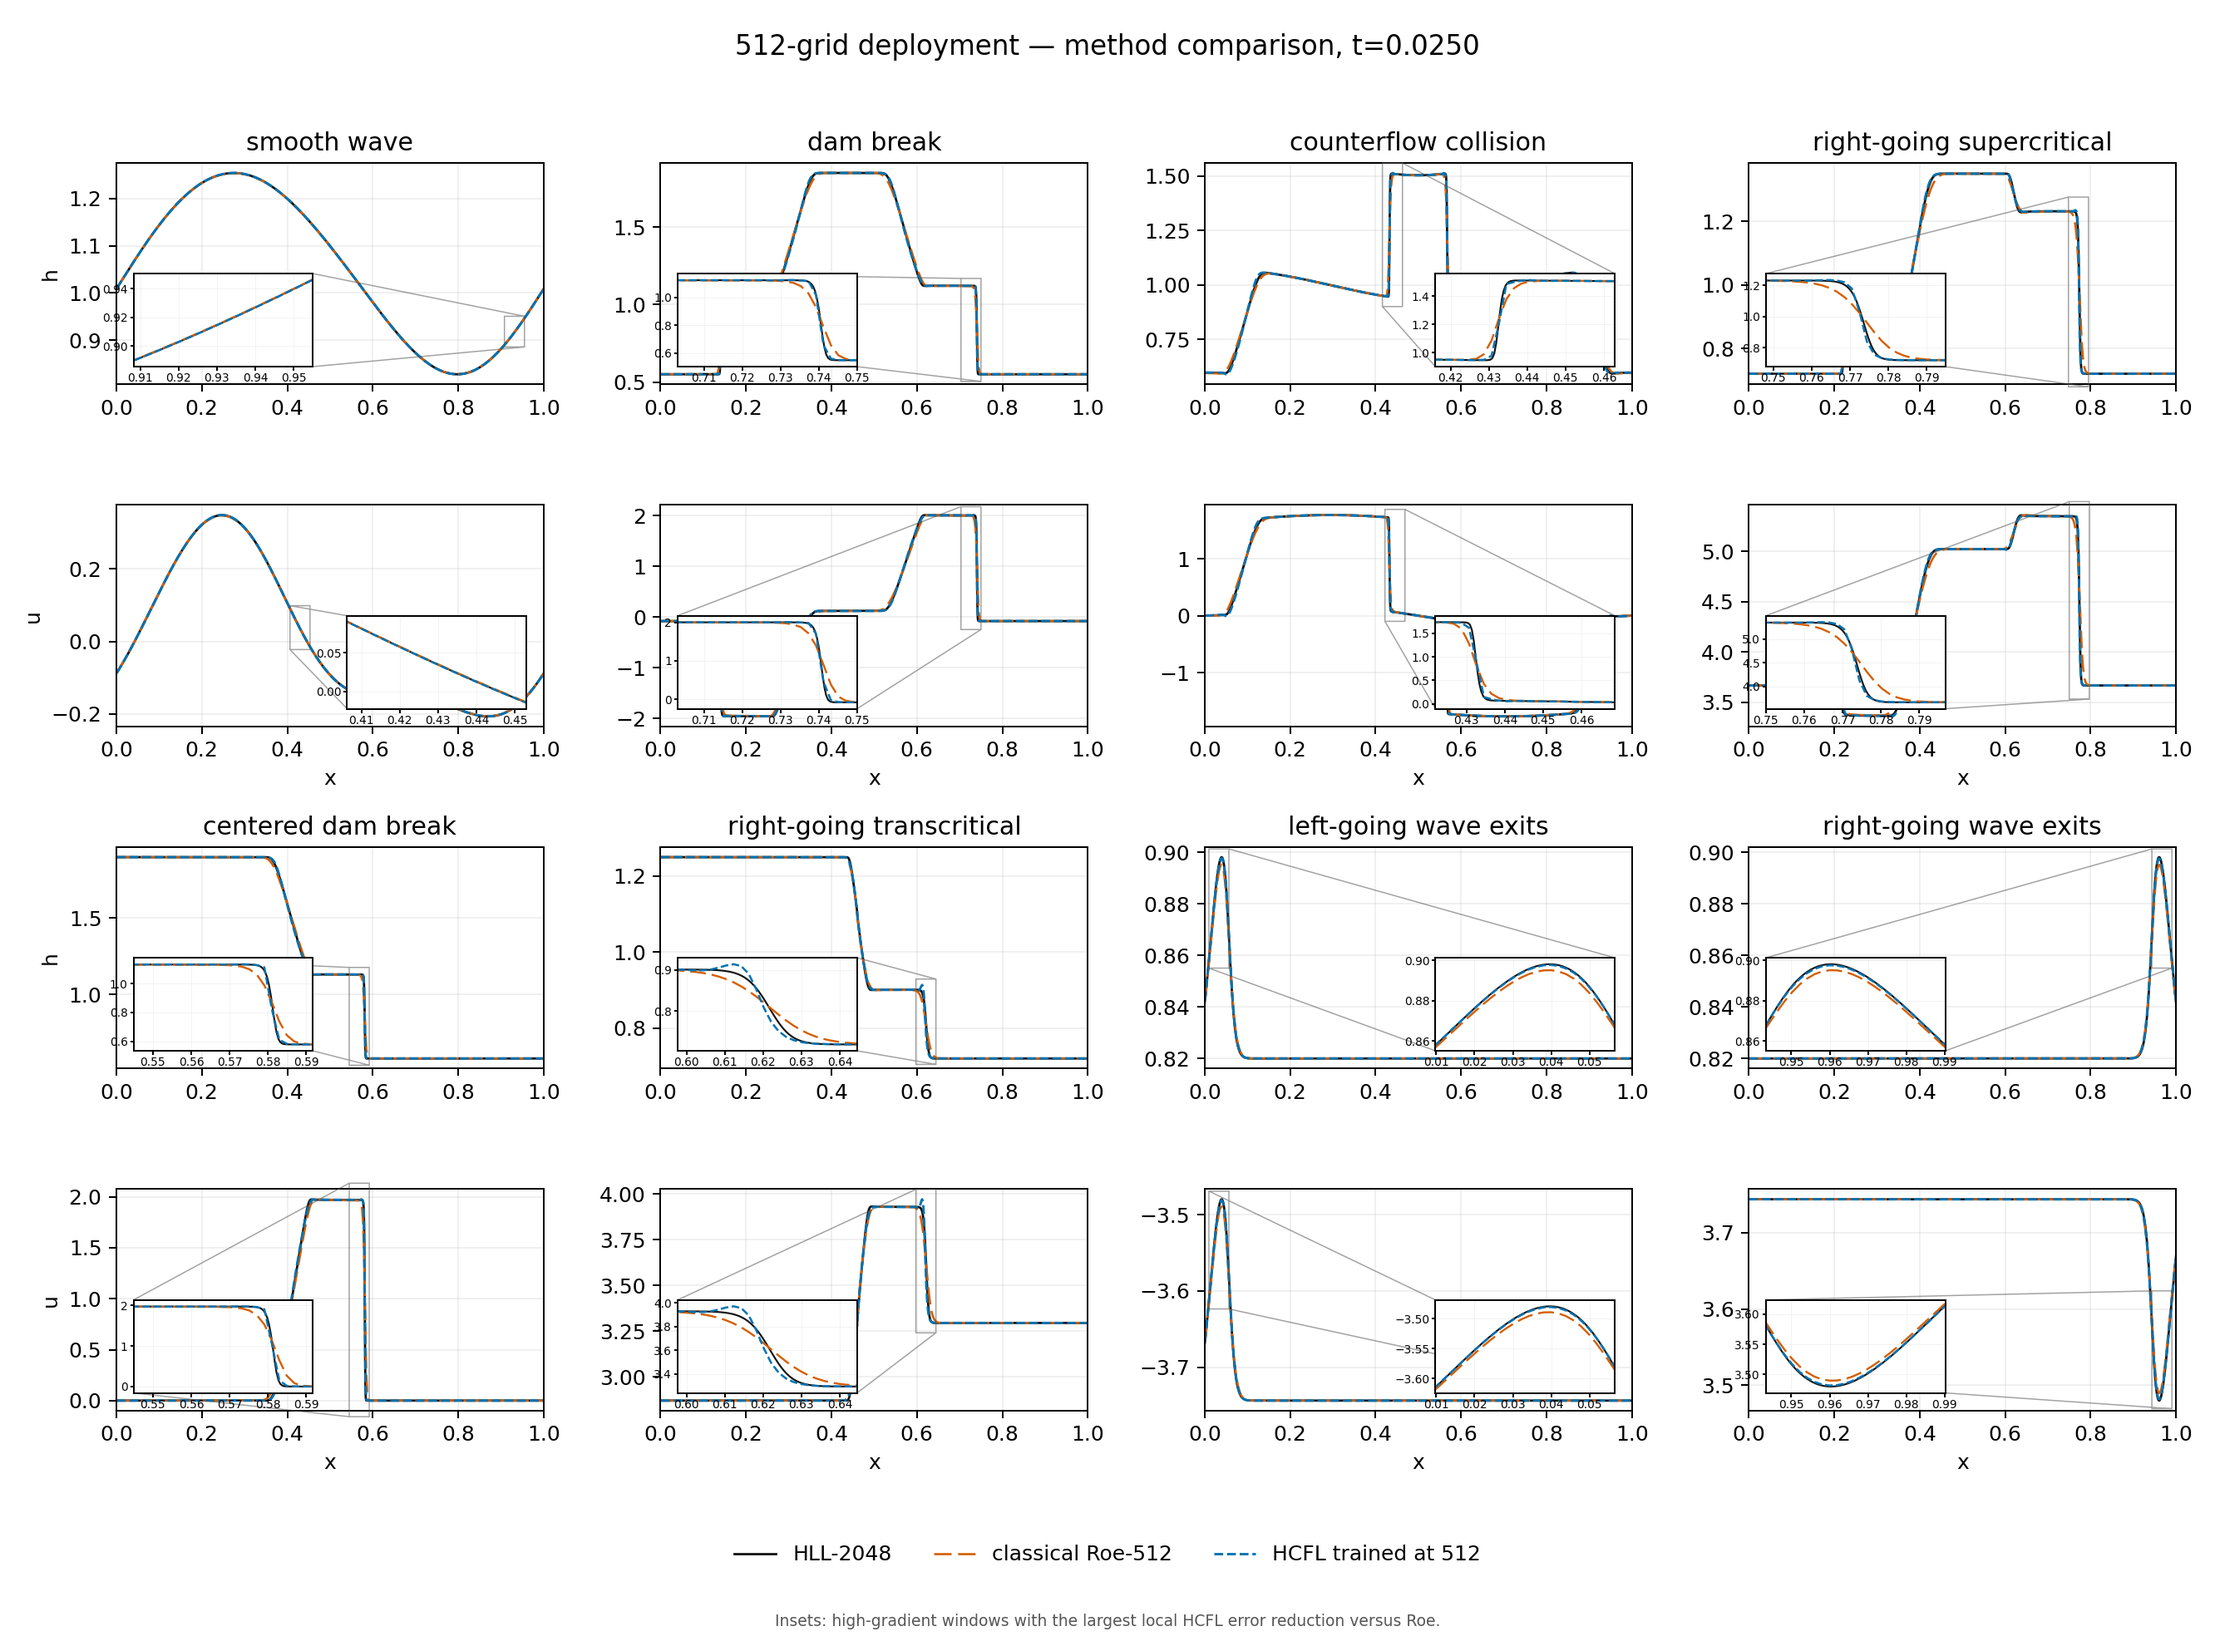
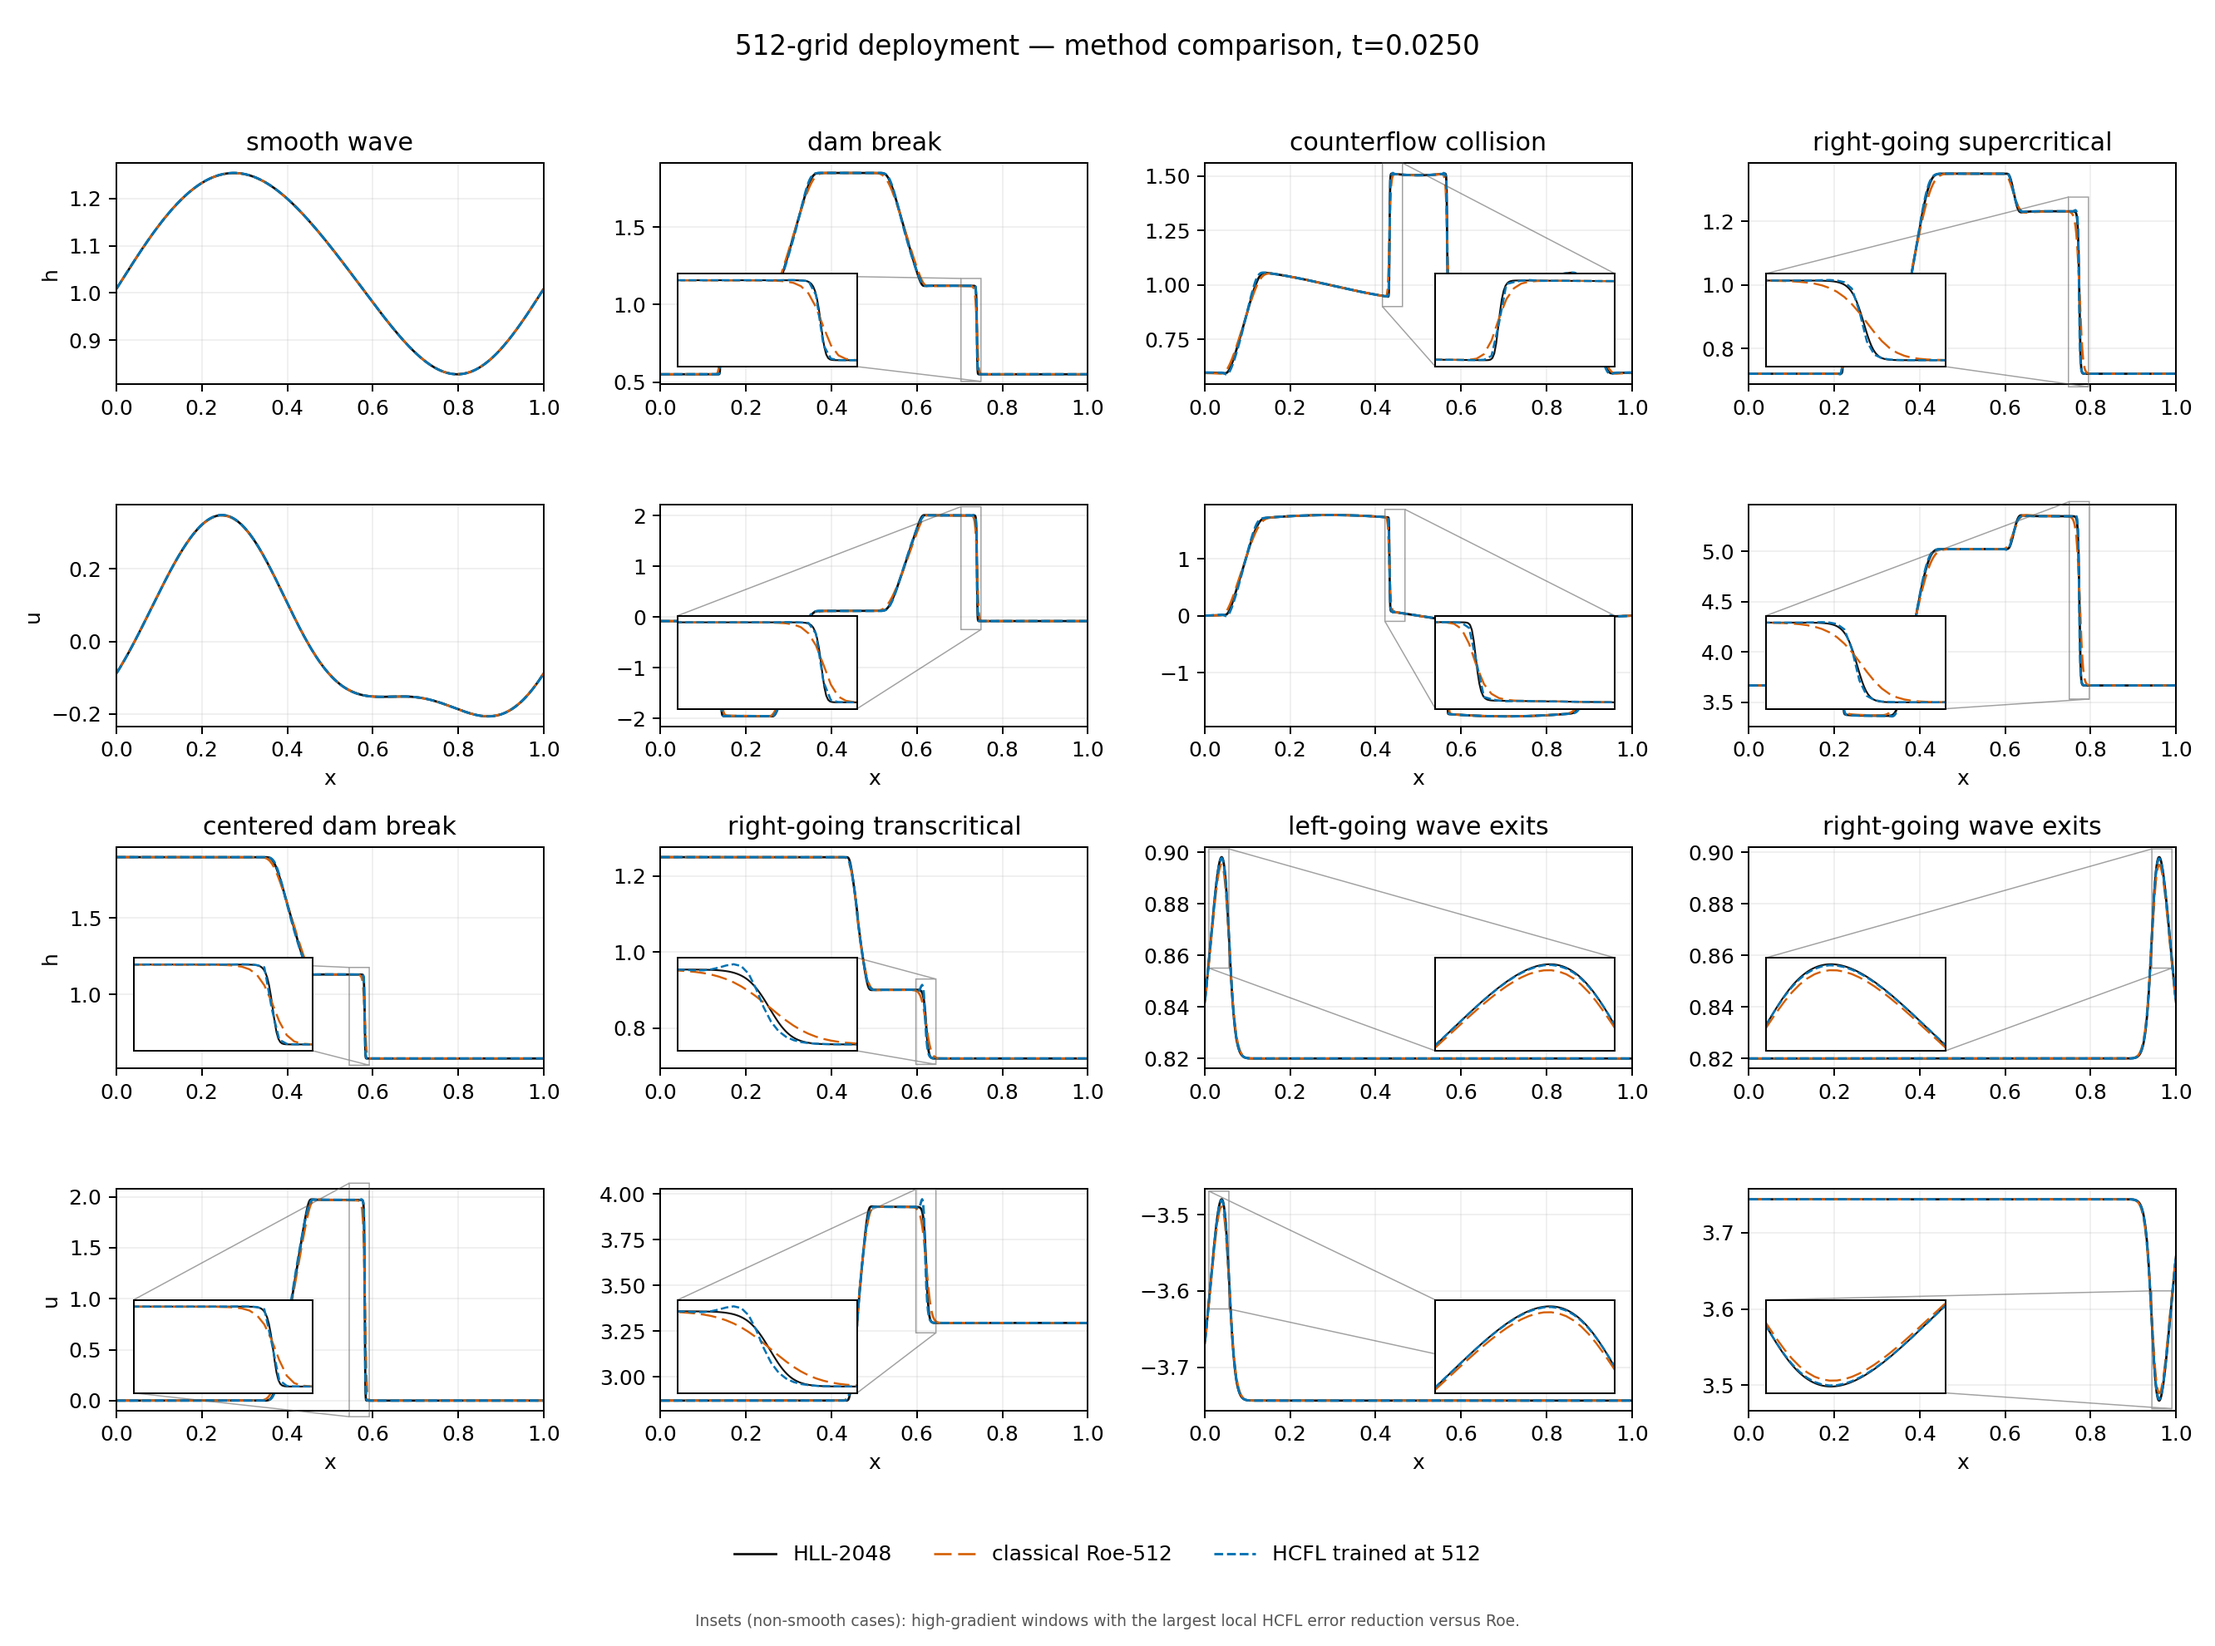
Simplify SWE comparison insets

Changed region(s): [[0.1246, 0.3697, 0.2181, 0.4313], [0.3739, 0.9859, 0.4673, 1.0], [0.4985, 0.9859, 0.5297, 1.0]]

diff --git a/hard_constrained_flux_learning/experiments/swe_1d_train512_validation/run_train512.py b/hard_constrained_flux_learning/experiments/swe_1d_train512_validation/run_train512.py
@@ -980,14 +980,17 @@ def plot_combined_profiles(
                 global_span = max(float(np.ptp(reference_values)), 1.0e-8)
                 padding = max(0.08 * (y_high - y_low), 0.005 * global_span)
                 inset.set_ylim(y_low - padding, y_high + padding)
-                inset.grid(alpha=0.15, linewidth=0.4)
-                inset.tick_params(axis="both", labelsize=5.5, length=1.8, pad=1.0)
-                axis.indicate_inset_zoom(
-                    inset,
-                    edgecolor="#555555",
-                    alpha=0.55,
-                    linewidth=0.6,
-                )
+                inset.set_xticks([])
+                inset.set_yticks([])
+                if case == "smooth_wave":
+                    inset.remove()
+                else:
+                    axis.indicate_inset_zoom(
+                        inset,
+                        edgecolor="#555555",
+                        alpha=0.55,
+                        linewidth=0.6,
+                    )
                 axis.grid(alpha=0.18)
                 axis.set_xlim(0.0, 1.0)
                 if local_row == 0:
@@ -1013,7 +1016,7 @@ def plot_combined_profiles(
     figure.text(
         0.5,
         0.012,
-        "Insets: high-gradient windows with the largest local HCFL error reduction versus Roe.",
+        "Insets (non-smooth cases): high-gradient windows with the largest local HCFL error reduction versus Roe.",
         ha="center",
         fontsize=7.5,
         color="#555555",
